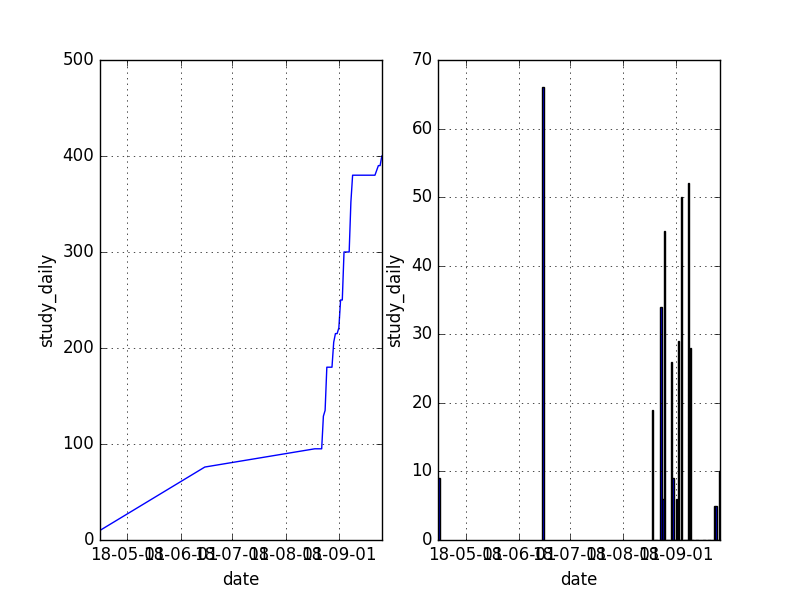
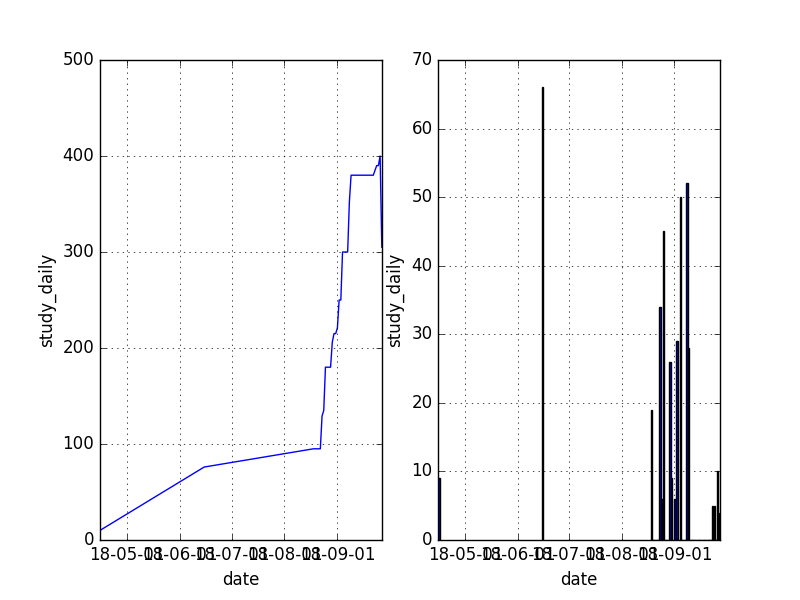
更新学习进度：更新毕业项目 5%

diff --git a/README.md b/README.md
@@ -43,6 +43,7 @@
     2018/9/24,深度学习-85,深度学习-90
     2018/9/25,深度学习-90,深度学习-90
     2018/9/26,深度学习-90,深度学习-100
+    2018/9/27,毕业项目-1,毕业项目-5
     >>>>>>>>>>>END<<<<<<<<<<<<](https://github.com/NemoHoHaloAi/machine-learning-plus/blob/master/study_daily.png)
 
 ## final learn plan
@@ -101,7 +102,7 @@
       1. 9.24:start 深度学习 85%,end 深度学习 90%;
       1. 9.25:Nothing;
       1. 9.26:start 深度学习 90%,end 深度学习 100%;
-      1. 9.27:Nothing;
+      1. 9.27:start 毕业项目 1%,end 毕业项目 5%;
       1. 9.28:Nothing;
       1. 9.29:Nothing;
       1. 9.30:Nothing;
